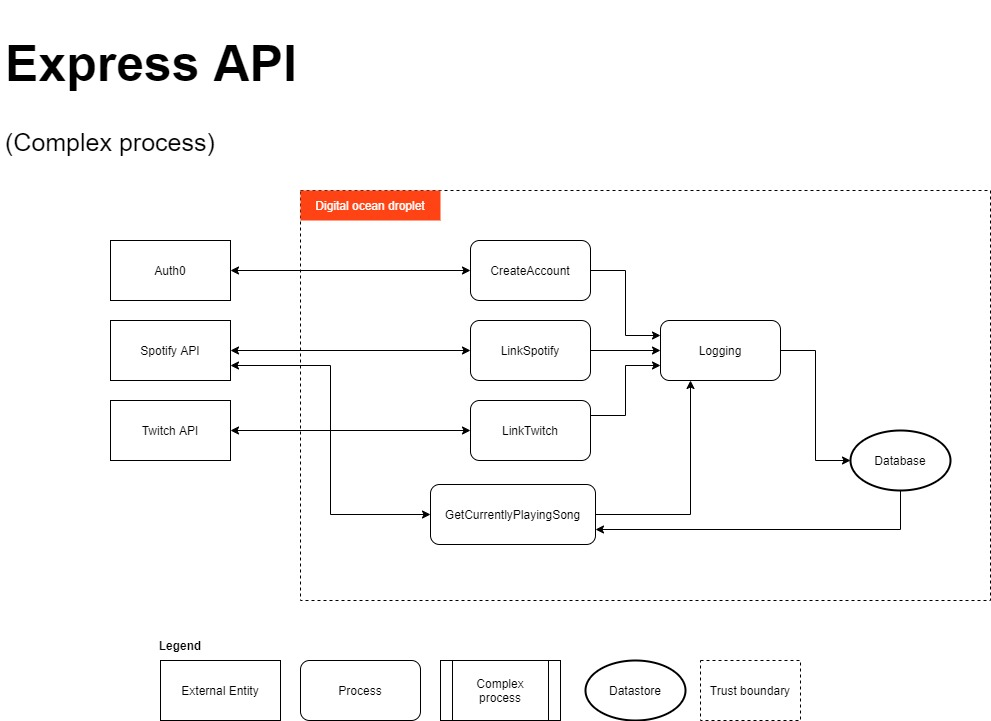
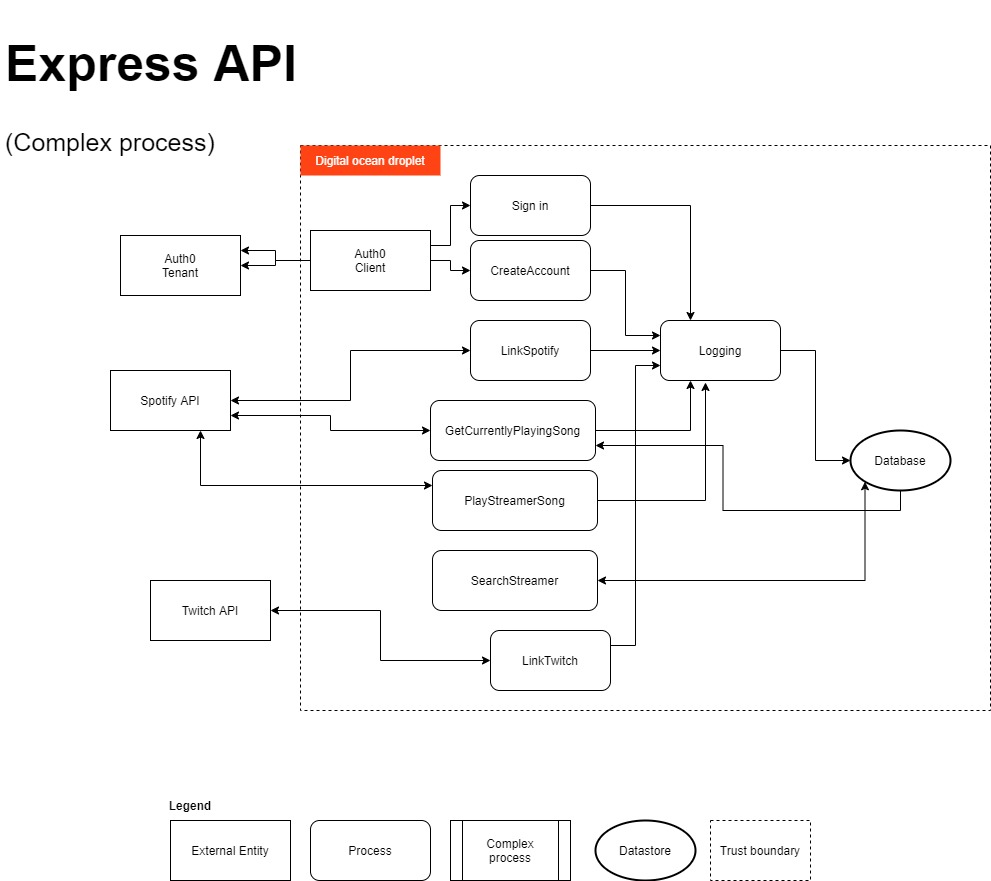
Feedback implemented

diff --git a/README.md b/README.md
@@ -2,7 +2,9 @@
 
 Twitch streamers spelen graag muziek af als achtergrond muziek of om stille momenten te vullen. Het probleem is dat als ze muziek afspelen dat ze kans maken om een DMCA claim te krijgen. Dit kan er voor zorgen dat jouw account wordt verwijderd.
 
-Om dit te vermijden willen wij een website maken dat de muziek die de streamer beluisterd via spotify toont en afspeelt via spotify voor de kijkers. De streamers moeten hun spotify en twitch account linken met hun account op onze website en daarna alleen de link delen via de stream. Ze kunnen hierdoor zonder muziek te streamen op hun twitch account de kijkers muziek van hun keuze aanbieden. De kijkers zullen alleen hun spotify account moeten linken om van de service te genieten.
+Om dit te vermijden willen wij een website maken dat de muziek die de streamer beluisterd via spotify toont en afspeelt via spotify voor de kijkers. De streamers moeten hun spotify en twitch account linken met hun account op onze website. Daarna een liedje afspelen in hun spotify, en de weblink naar hun profiel op onze site delen via de stream met de kijkers. Ze kunnen hierdoor zonder muziek te streamen op hun twitch account de kijkers muziek van hun keuze aanbieden. De kijkers zullen alleen hun spotify account moeten linken aan hun account op onze website om van de service te genieten.
+
+Hierdoor luisteren ze de muziek met hun spotify account en wordt er dus niet aan "uitzenden van muziek" gedaan door de streamer.
 
 # Acceptance criteria
 
@@ -51,13 +53,18 @@ Om dit te vermijden willen wij een website maken dat de muziek die de streamer b
 - [ ] Het application/json media type wordt aangeboden voor alle resources
 - [ ] De API zal de correcte response status codes gebruiken
 - [ ] De data, verkrijgbaar via de API, zal enkel via correcte tokens kunnen opgevraagd worden
+- [ ] De data zal enkel beschikbaar zijn van de frontend d.m.v. CORS
 
 ## Functionaliteiten
 
-- [ ] Men is verplicht om zijn/haar Spotify account na registratie te linken aan zijn/haar account.
-- [ ] Men heeft de mogelijkheid om zijn/haar Twitch account te linken aan zijn/haar account.
-- [ ] Men heeft de mogelijkheid om een streamer (waarvan zijn/haar account gelinkt is aan deze app) op te zoeken.
-- [ ] Men heeft de mogelijkheid om van een streamer (eens gevonden) de track die hij currently aan het afspelen is te beluisteren.
+- [ ] Als streamer en kijker ben ik verplicht te registreren om gebruik te kunnen maken van deze app
+- [ ] Als streamer en kijker ben ik bij de registratie verplicht om mijn Spotify account te linken aan mijn profiel op deze app
+- [ ] Als streamer en kijker ben ik verplicht in te loggen na registratie
+- [ ] Als streamer ben ik verplicht om mijn Twitch account te linken aan mijn profiel op deze app
+- [ ] Als kijker heb ik de keuze om mijn Twitch account te linken aan mijn profiel op deze app
+- [ ] Als streamer en kijker heb ik de mogelijkheid om streamers op te zoeken aan de hand van zijn/haar username van Twitch
+- [ ] Als streamer en kijker heb ik de mogelijkheid om het profiel van de gevonden streamer te bekijken
+- [ ] Als streamer en kijker heb ik de mogelijkheid om op het profiel van de gevonden streamer het lied waarnaar deze streamer aan het luisteren is af te spelen
 
 ## Permissions & rights
 
@@ -69,14 +76,14 @@ Om dit te vermijden willen wij een website maken dat de muziek die de streamer b
 ![threat_model_ini](https://github.com/EHB-TI/web-app-guns-for-hire/blob/main/images/threat_model_ini.jpg)
 ![threat_model_api](https://github.com/EHB-TI/web-app-guns-for-hire/blob/main/images/threat_model_api.jpg)
 
-| Threat                     | Tegenmaatregel technologie | Plaats van Threat | Voorbeeld uit diagram   | Uitleg                                                                                                                                                             |
-| -------------------------- | -------------------------- | ----------------- | ----------------------- | ------------------------------------------------------------------------------------------------------------------------------------------------------------------ |
-| **Spoofing**               | Auth0                      | Sign in, Sign up  | CreateAccount           | We gebruiken Auth0 om de authenticatie af te handelen. Bij deze flow wordt er een token terug gestuurd naar de api waardoor we zeker zijn van de juiste user.      |
-| **Tampering**              | JWT-tokens                 | Requesting data   | GetCurrentlyPlayingSong | We gebruiken JWT-tokens om er zeker van te zijn dat de user de correcte data kan opvragen. En dat deze tijdens het request niet aangepast kan worden.              |
-| **Repudiation**            | Logging                    | Every request     | Every process           | We gebruiken logging om vast te leggen wie welke actie gedaan heeft om de fout te kunnen traceren naar de corresponderende user. (eventueel LogRocket)             |
-| **Information Disclosure** | Encryption                 | Sending data      | GetCurrentlyPlayingSong | We gebruiken encryption om er zeker van te zijn dat enkel de opvrager de data kan lezen met zijn key                                                               |
-| **Denial of Service**      | Kubernetes                 | Server            | Digital ocean droplet   | We gebruiken kubernetes om load balancing te gaan toepassen op de verschillende containers zodat er steeds meerdere instanties zijn en minder kans is op downtime. |
-| **Elevation of Privilage** | Roles                      | Express API       | GetCurrentlyPlayingSong | We maken gebruik van rollen om er zeker van te zijn dat een user enkel data kan beheren die voor zijn rol bestemd is.                                              |
+| Threat                     | Tegenmaatregel technologie | Plaats van Threat | Voorbeeld uit diagram                                     | Uitleg                                                                                                                                                             |
+| -------------------------- | -------------------------- | ----------------- | --------------------------------------------------------- | ------------------------------------------------------------------------------------------------------------------------------------------------------------------ |
+| **Spoofing**               | Auth0                      | Sign in, Sign up  | CreateAccount & Sign in                                   | We gebruiken Auth0 om de authenticatie af te handelen. Bij deze flow wordt er een token terug gestuurd naar de api waardoor we zeker zijn van de juiste user.      |
+| **Tampering**              | JWT-tokens                 | Requesting data   | GetCurrentlyPlayingSong, PlayStreamerSong, SearchStreamer | We gebruiken JWT-tokens om er zeker van te zijn dat de user de correcte data kan opvragen. En dat deze tijdens het request niet aangepast kan worden.              |
+| **Repudiation**            | Logging                    | Every request     | Every process                                             | We gebruiken logging om vast te leggen wie welke actie gedaan heeft om de fout te kunnen traceren naar de corresponderende user. (eventueel LogRocket)             |
+| **Information Disclosure** | Encryption                 | Sending data      | GetCurrentlyPlayingSong, PlayStreamerSong, SearchStreamer | We gebruiken encryption om er zeker van te zijn dat enkel de opvrager de data kan lezen met zijn key                                                               |
+| **Denial of Service**      | Kubernetes                 | Server            | Digital ocean droplet                                     | We gebruiken kubernetes om load balancing te gaan toepassen op de verschillende containers zodat er steeds meerdere instanties zijn en minder kans is op downtime. |
+| **Elevation of Privilage** | Roles                      | Express API       | GetCurrentlyPlayingSong, PlayStreamerSong, SearchStreamer | We maken gebruik van rollen om er zeker van te zijn dat een user enkel data kan beheren die voor zijn rol bestemd is.                                              |
 
 # Deployment
 
